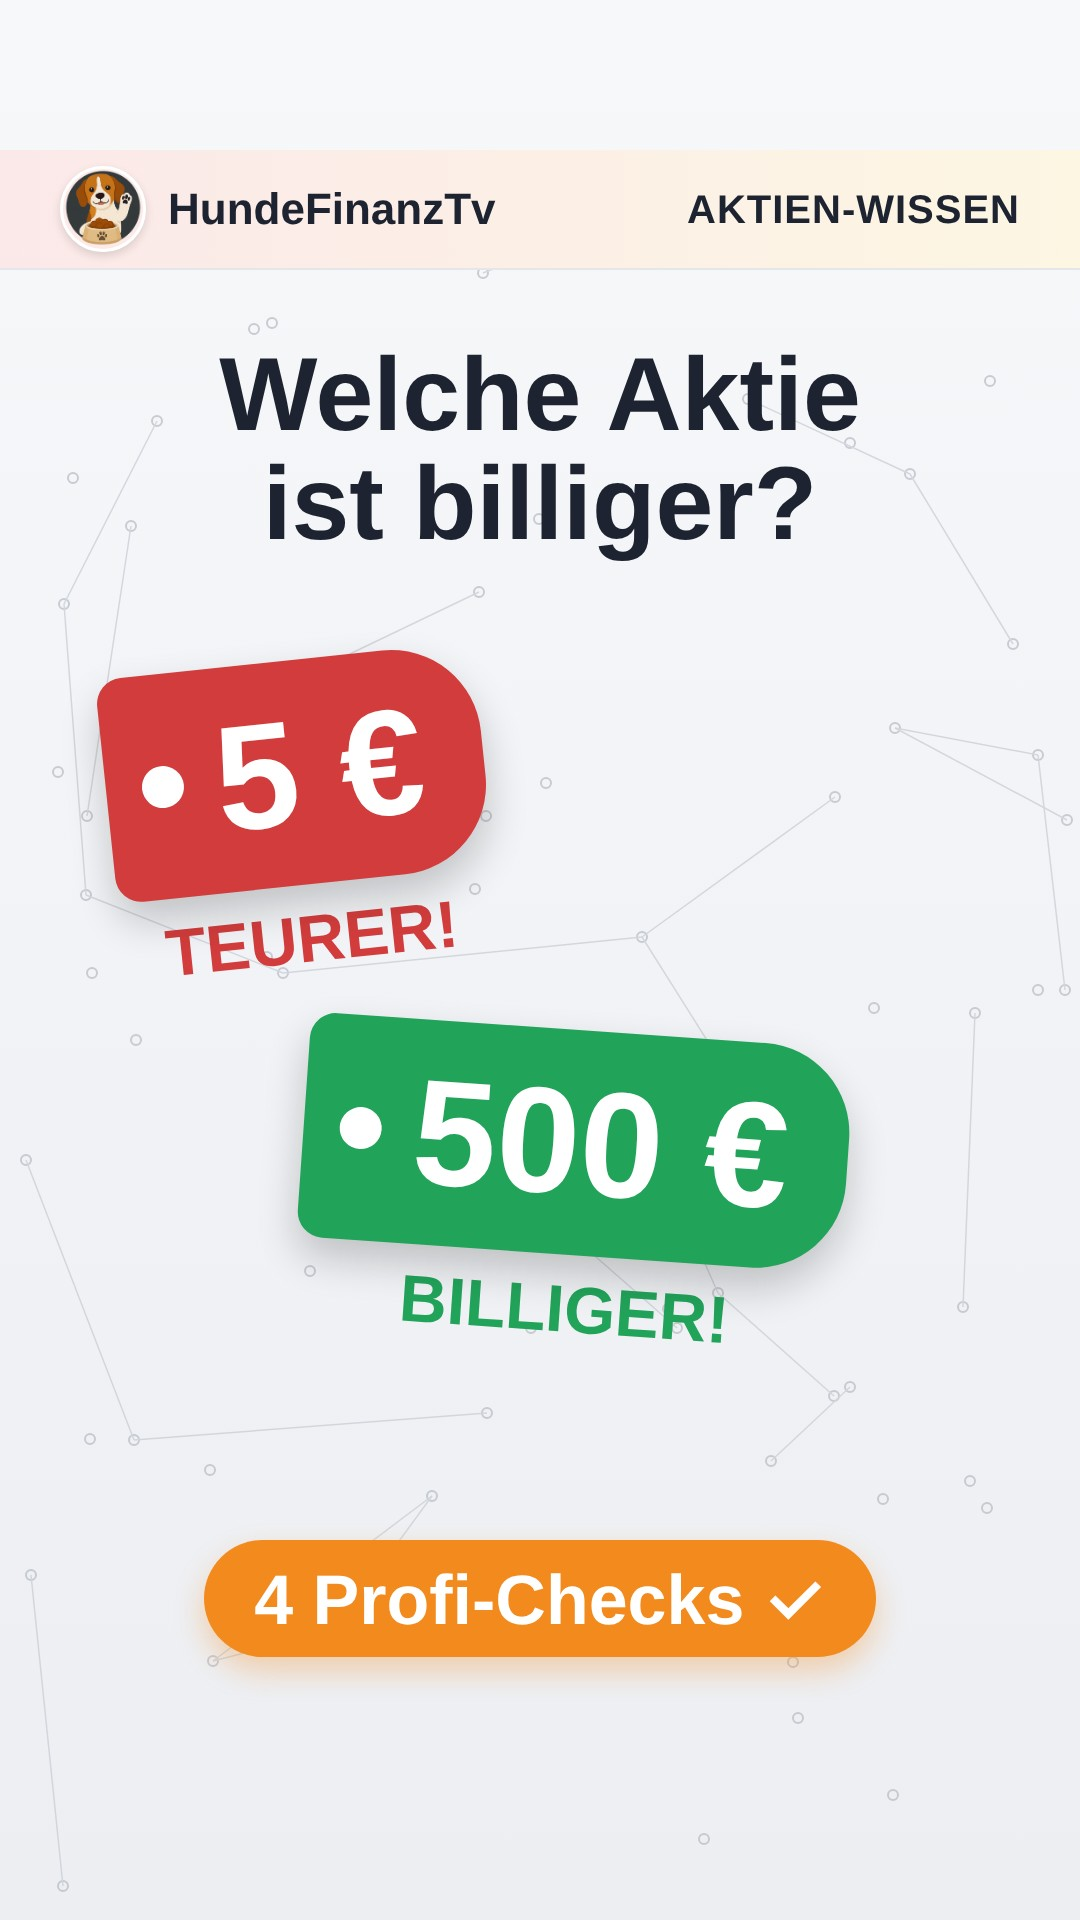
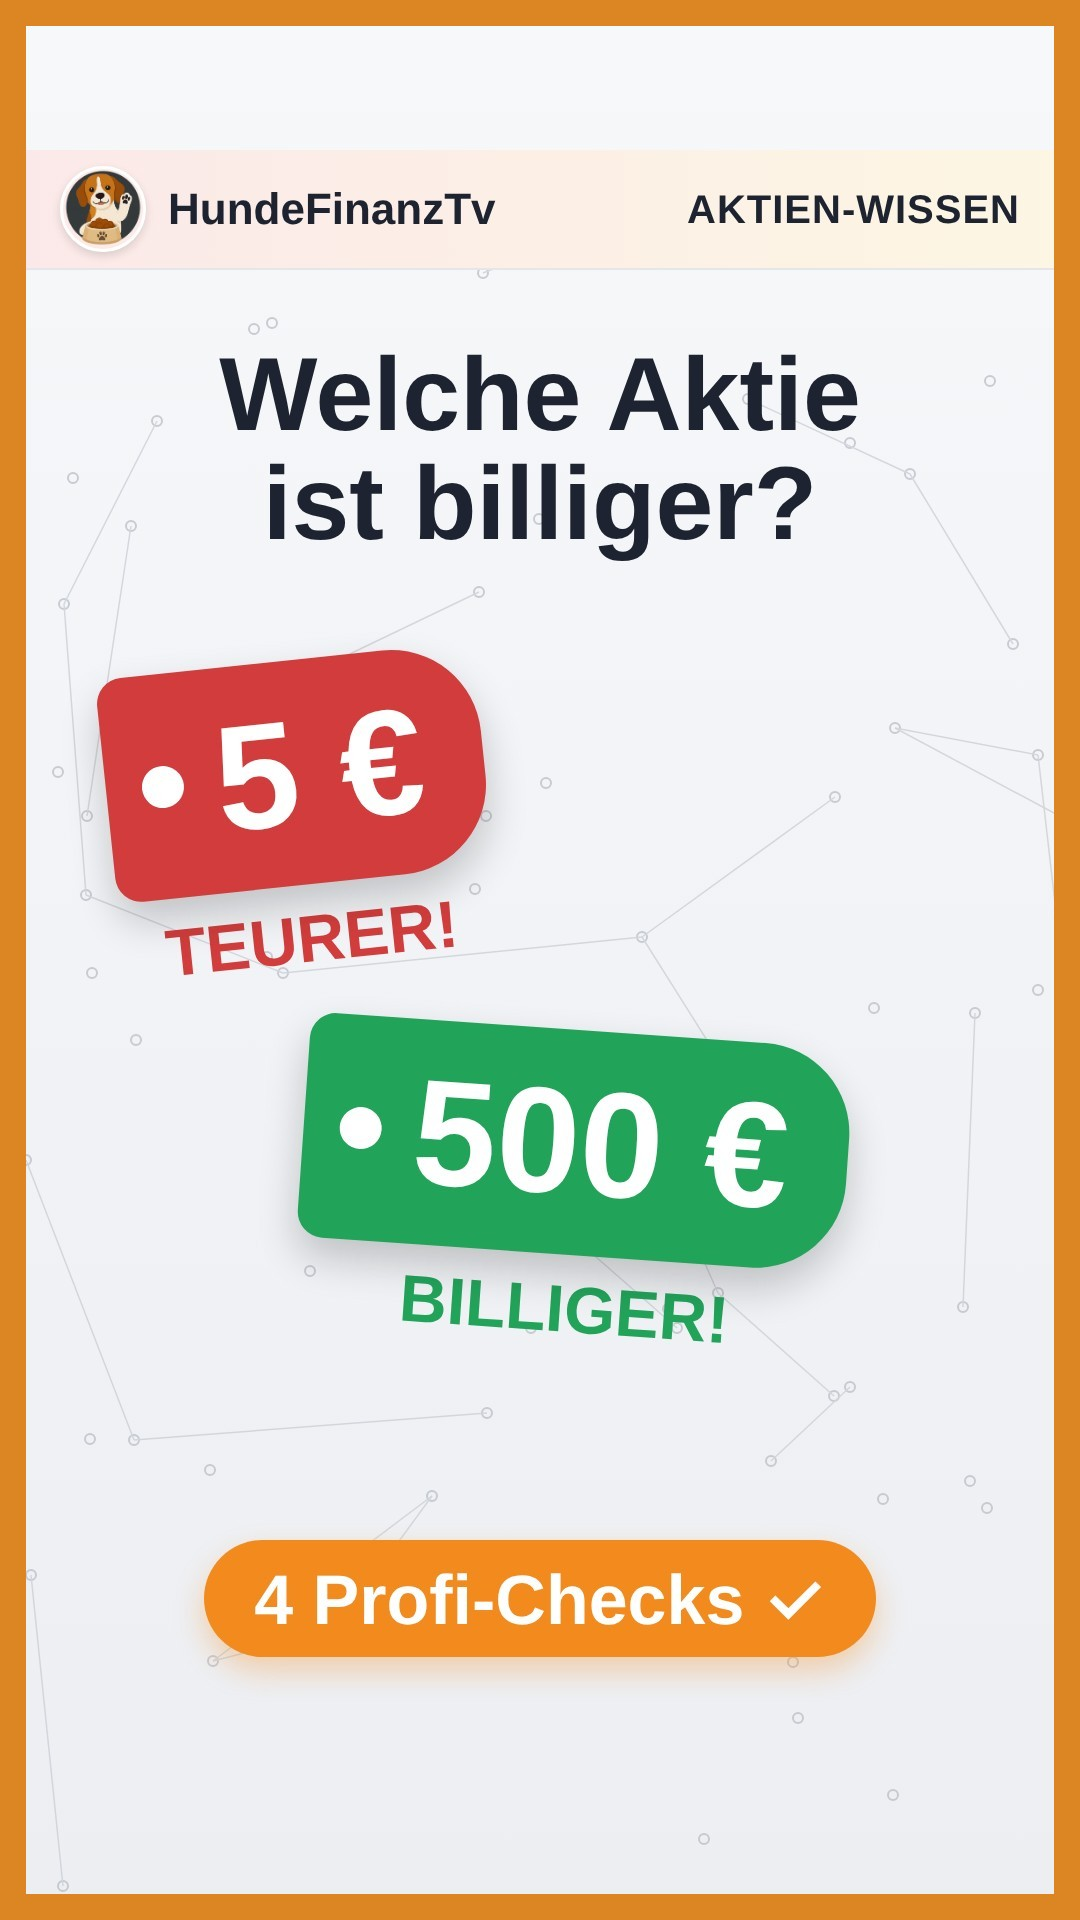
Oranger Rahmen im neuen Look + Covers
Claude-Session: https://claude.ai/code/session_01XBnSHJxa6BBKhWdF9iTPXU

Changed region(s): [[0.0, 0.0, 1.0, 1.0]]

diff --git a/videos/aktie-bewerten/index.html b/videos/aktie-bewerten/index.html
@@ -23,7 +23,7 @@
       #flash { position: absolute; inset: 0; background: #fff; opacity: 0; z-index: 9; pointer-events: none; }
       .p { position: absolute; border-radius: 50%; }
       .l { display: inline-block; }
-      #frame { display:none;  position: absolute; inset: 0; border: 26px solid #DB8622; z-index: 10; }
+      #frame { position: absolute; inset: 0; border: 26px solid #DB8622; z-index: 10; }
       .ew { position: absolute; left: 0; width: 1080px; text-align: center; z-index: 6; font-weight: 900; font-size: 104px; line-height: 1; color: #fff; text-transform: uppercase;
         letter-spacing: -1px; text-shadow: 0 6px 0 #000, 0 0 30px #000; white-space: nowrap; }
       .cap { position: absolute; left: 60px; top: 1330px; width: 960px; text-align: center; z-index: 6; }

diff --git a/videos/boerse-1911/index.html b/videos/boerse-1911/index.html
@@ -23,7 +23,7 @@
       #flash { position: absolute; inset: 0; background: #fff; opacity: 0; z-index: 9; pointer-events: none; }
       .p { position: absolute; border-radius: 50%; }
       .l { display: inline-block; }
-      #frame { display:none;  position: absolute; inset: 0; border: 26px solid #DB8622; z-index: 10; }
+      #frame { position: absolute; inset: 0; border: 26px solid #DB8622; z-index: 10; }
       .ew { position: absolute; left: 0; width: 1080px; text-align: center; z-index: 6; font-weight: 900; font-size: 104px; line-height: 1; color: #fff; text-transform: uppercase;
         letter-spacing: -1px; text-shadow: 0 6px 0 #000, 0 0 30px #000; white-space: nowrap; }
       .cap { position: absolute; left: 60px; top: 1330px; width: 960px; text-align: center; z-index: 6; }

diff --git a/scripts/news_look.py b/scripts/news_look.py
@@ -72,7 +72,6 @@ def hell(here):
          "background: linear-gradient(180deg,#f7f8fa,#eceef2);"),
         ("background: #0e1012; }", "background: #eef0f3; }"),
         ('<div id="raster"></div>', f'<div id="raster">{_netz()}</div>'),
-        ("#frame {", "#frame { display:none; "),
         ("#logo {", "#logo { display:none; "),
         ("#brand {", "#brand { display:none; "),
         ("color: #fff; text-shadow: 0 6px 0 #000, 0 0 30px #000; }\n",

diff --git a/.claude/skills/finanz-video/SKILL.md b/.claude/skills/finanz-video/SKILL.md
@@ -331,3 +331,4 @@ Heller Nachrichten-Look nach Vorbild Eulen-Kanal (finanzlehre). Probe: `renders/
 - Einstieg Börsen-Rückblick (19.11., Vorlage `renders/einstieg-idee-kombi.jpg`): orange Kurve hinter dem Logo, „HundeFinanzTv“ unter dem Logo, Satz + „in 60 Sekunden“,
   darunter 3 Zahlen-Kacheln = jeden Tag die 3 größten Bewegungen des Tages (echte Logos + Zahlen), die auch im Video vorkommen.
 - Hintergründe neuer Look: pro Szene passendes echtes Foto hell/weich (`nl.foto(id, key)`, Kit(hgs=[…])); NEUE Fotos holen (`scripts/hg_neu.py`, Commons oft 429 → einzelne bekannte Dateinamen per Special:FilePath). Nutzer 19.11.: „bisher immer die gleichen Fotos“ → neue bevorzugen.
+- Oranger Rahmen (Nutzer 19.11.): IMMER bei Video UND Thumbnail (neuer Look behält #frame 26 px #DB8622).

diff --git a/CLAUDE.md b/CLAUDE.md
@@ -33,6 +33,7 @@ Videos werden mit HyperFrames (HTML + GSAP → MP4) gebaut. Skills: `.claude/ski
 ## Regeln vom Nutzer
 - Folgen-CTA („Folge HundeFinanzTv …“) ab 18.11. immer als letzter Satz im Video
 - Ab 19.11. ALLE Videos (auch Longform) nur 61–75 s, bis der Nutzer etwas anderes sagt (2–3 Min. liefen schlecht). Logo-Intro wie beim Short nach ca. 15 s
+- Oranger Rahmen immer bei Video und Thumbnail
 - Kein Thema/keine Firma innerhalb von 30 Tagen wiederholen (auch nicht mit „neuem Blickwinkel“); Bereiche abwechseln, Börse/KI selten
 - Abend-Börsenrückblick startet immer mit „Alles, was heute an der Börse passiert ist – in 60 Sekunden.“
 - Alles auf Deutsch, Antworten sehr kurz und iPad-tauglich, ohne Fachwörter
